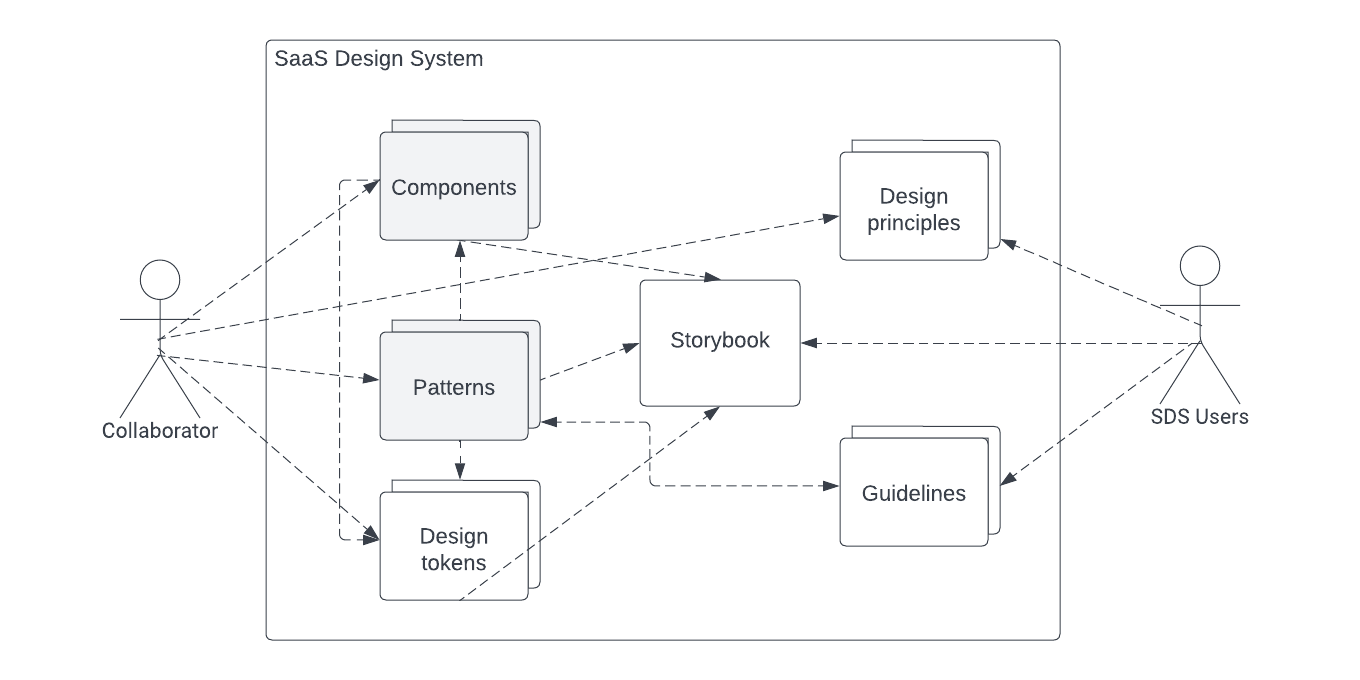
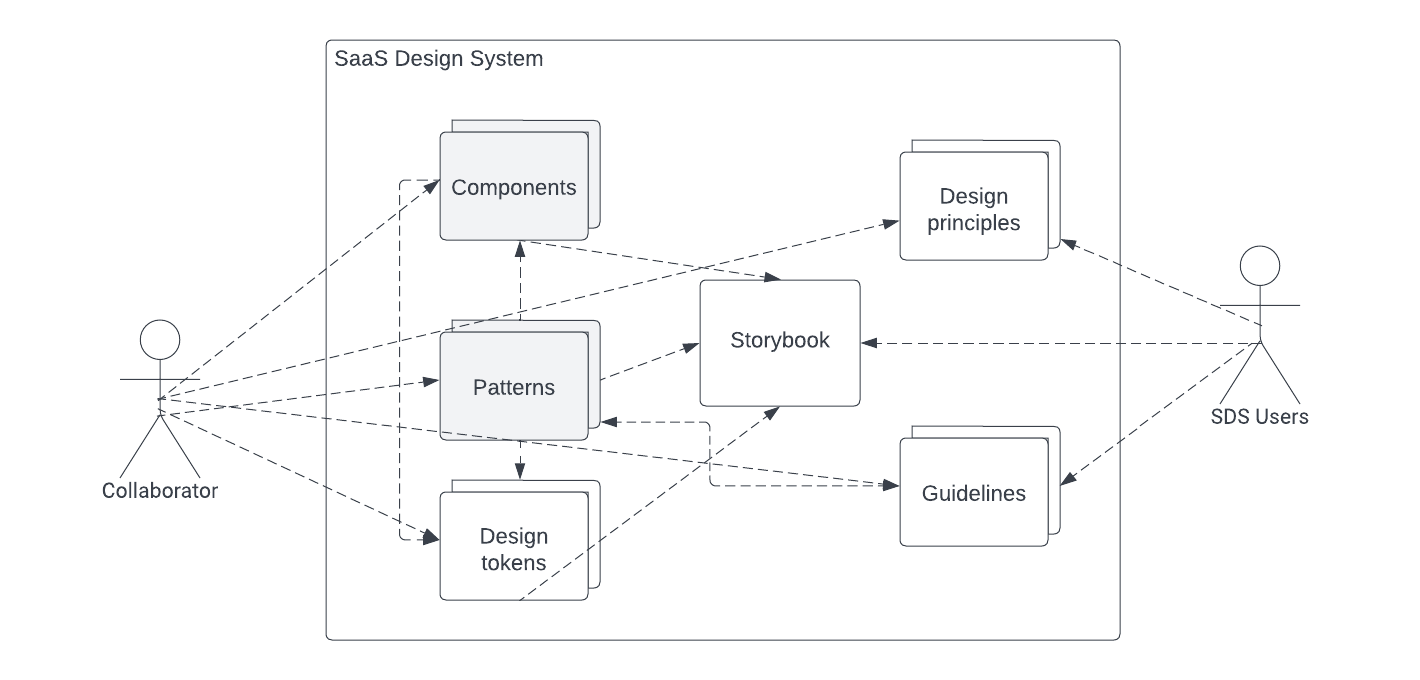
Finishing up building block view level 1

diff --git a/chapter_3/modeling.tex b/chapter_3/modeling.tex
@@ -34,6 +34,7 @@ Storybook is the only component that is unknown. Storybook is a tool that helps 
 The diagram intentionally shows the building block in the middle. It serves as the central documentation system for components, patterns and design tokens. Therefore, the SDS user interacts with the storybook building block by searching for appropriate components for their use case. The diagram shows other relationships to the programmed assets of the design system. These connections represent the documentation aspect of these building blocks within Storybook.\\
 
 \subparagraph{Design principles}
+Design principles are another building block of \ac{SDS}. The diagram in Figure \ref{building_block_level_1_sds} shows that this building block has connections to collaborators and the \ac{SDS} user. This is because both actors use design principles when interacting with the \ac{SDS}. The \ac{SDS} user should keep these principles in mind when creating new applications with the \ac{SDS} or extending the \ac{SDS} to create their own design system. On the other hand, the collaborator keeps the principles in mind when contributing to the system. Components, patterns, and tokens should always follow the design principles. \\
 In terms of design principles, the \ac{SDS} strives to keep them lean and easy to understand. This helps the design system to serve as a basis for other design systems. \\
 The \textbf{Simple} principle states that component design should not have unnecessary styles or features that make it difficult to extend. This principle underlines the idea of keeping the entire design system lean. Developers understand lean descriptions and clear documentation much better than reading a wall of text. \\
 Many products strive to implement accessibility in their products. With the \textbf{Accessible} principle, \ac{SDS} emphasizes the importance of accessible user interfaces. This emphasizes not only significant in terms of inclusion, but also helps accessibility in the overall user experience for all users. Because \textbf{Accessibility} doesn't just come into play when it relates to disabilities, it helps the application with the overall user experience. \\
@@ -41,8 +42,8 @@ The third and final principle is \textbf{Solid}. As stated earlier, the \ac{SDS}
 The first iteration of the \acl{SDS} principles provides a good foundation on which to build. As described in Chapter \ref{design_principles}, finding the right design principles will take a few iterations to get right. But by starting with \textbf{Simple}, \textbf{Accessible}, and \textbf{Solid}, designers and developers will find the right way to use this design system.
 
 \subparagraph{Guidelines}
-The next building block that the SDS user comes into contact with are guidelines. It is obvious that the SDS user needs to know about policies in a design system, hence the connection. Furthermore, the diagram shows a bidirectional connection to patterns, which is interpreted as a close cooperation between guidelines and patterns in SDS.\\
-The design principles just presented form the basis for the \ac{SDS} guidelines. In addition to the core guidelines on extension, accessibility, and essential use, some guidelines focus on contributions and collaboration. As this is an open-source system, as many people as possible should be able to work on it. \\
+The next building block that the SDS user comes into contact with are guidelines. It is obvious that the SDS user needs to know about guidelines in a design system, hence the connection. Furthermore, the diagram shows a bidirectional connection to patterns, which is interpreted as a close cooperation between guidelines and patterns in \ac{SDS}.\\
+The design principles just presented form the basis for the \ac{SDS} guidelines. In addition to the core extension, accessibility, and basic use guidelines, some guidelines focus on contributions and collaboration. Therefore, the diagram adds a link to collaborators to the guidelines. This emphasizes that collaborators also consume the guidelines of the design system. As this is an open-source system, as many people as possible should be able to work on it. \\
 The extension guidelines address how to integrate \ac{SDS} as the basis for a company's own design system. It shows developers and designers how to create their own from the components provided. The goal of such a guide is to help system developers use the SDS as a foundation. The guide helps developers and designers to build their system on the SDS instead of introducing complex integrations. \\
 Since accessibility is also a design principle, a guideline must define what the \ac{SDS} means by accessibility. The guideline should give the user a definition and sources for accessibility. But there should also be a manual for self-designed components to help users implement accessibility. Understanding this guide, users should no longer have accessibility questions when designing new interfaces. \\
 As a third guideline, the \ac{SDS} will support the user in using the system. This guide could also be seen as an entry guide and will cover the basics. Importing the design system, proper bootstrapping, and guidance on configuring the system. Such a guideline may seem self-explanatory, but the lack of it often prevents users from using the system. The usage guide should be as simple as possible and cover every small step needed to get started with the \ac{SDS}. \\
@@ -51,6 +52,13 @@ As this design system evolves over time, there should be opportunities to change
 Some design systems introduce blogs and forums for knowledge exchange to achieve high interactivity in a design system. In this way, users can connect, discuss and contribute to ideas to further improve the design system. A well-moderated blog and forum will further enhance the community around the \ac{SDS}. \\
 Since the \ac{SDS} won't be a product but an open source project, forums and blogs will be the marketing platform to spread the idea of the design system. The goal is to build a strong community around the \ac{SDS}. So that some of the advocates end up contributing to the actual design system. \\
 In summary, the guidelines of the \acl{SDS} are about creating a community around the design system. Developer and designers should not only using it for their desired goal, but see the potential to collaborate for the bigger picture behind \ac{SDS}.
+
+\subparagraph{Design tokens}
+The last non-gray box in the diagram in Figure \ref{building_block_level_1_sds} is the building block of design tokens. Design tokens form the basis for each component or pattern. Tokens are the smallest unit within the \ac{SDS}. Yet, design tokens have many connections to other building blocks within the design system. 
+The connection to collaborators represents their contributions to the design tokens. Collaborators maintain the design tokens. The other two incoming links to components and patterns represent the use of design tokens in them. As well as the link to Storybook described earlier to document Design Tokens for \ac{SDS} users.
+\ac{SDS}'s design tokens are not very specific. They consist of basic values like colors, spacing, typography, which were also described in Chapter \ref{layout}.//
+
+Next, it is time to take a closer look at the architecture of the SDS by moving to the second level of the building block view. At the second level, Starke's method performs a more detailed analysis of the building blocks of the components and patterns.
 
 \paragraph{Building block view level 2 - Components}
 \begin{figure}[htbp]

diff --git a/chapter_2/design_system.tex b/chapter_2/design_system.tex
@@ -125,7 +125,7 @@ After reviewing various design systems, component libraries are divided into 4 c
 	\item \textbf{Patterns} - Combination of multiple components 
 \end{itemize}
 
-\subsubsection{Layout}
+\subsubsection{Layout} \label{layout}
 The foundation of any design system is the ability to place, move, or arrange elements on web pages. To achieve a consistent appearance in applications, it is important to align spacing and positioning in a central place. \\ 
 For this purpose, so-called design tokens in form of CSS variables are often used. Similar to Tailwind (\url{https://tailwindcss.com/}), CSS classes implement design tokens and abstract them, so the developer does not need to use the variables natively. Thus, the developer does not need to know anything about CSS.  \\
 Salesforce Lightning Design System, for example, lists all layout tools under \textbf{Utilities}. It sets sizes for text, simple boxes, and spacing between components. In fact, a sophisticated grid layout system can be seen as well. \\
